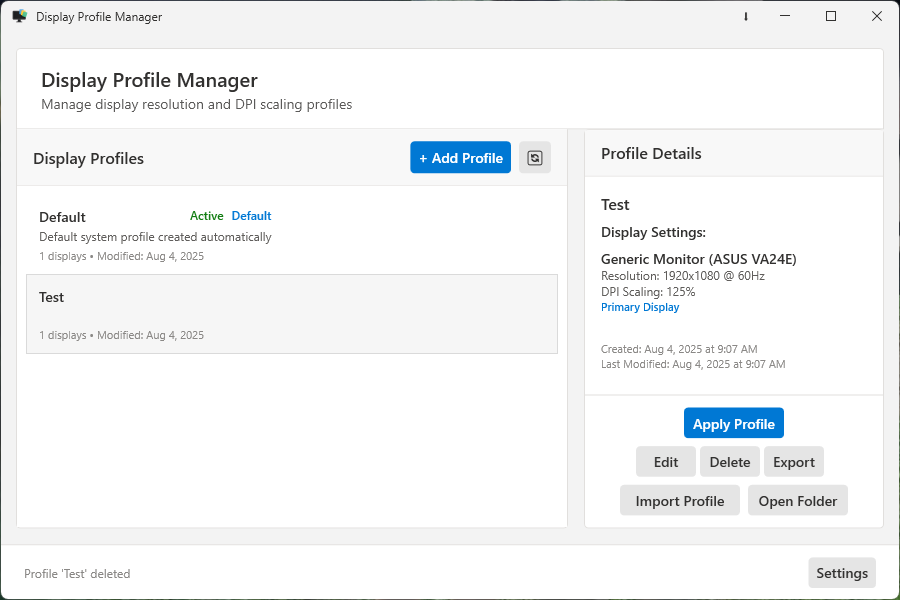
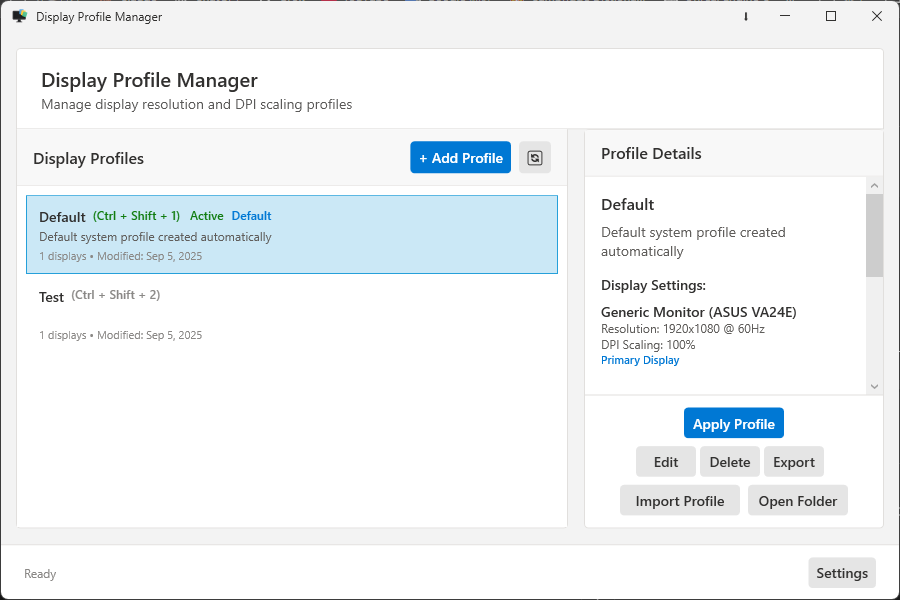
docs: update README screenshots and improve layout
- Replace all screenshots with updated versions showing current UI
- Add second profile editor screenshot to showcase additional features
- Improve README layout with better spacing between sections
- Move screenshot descriptions above images for better readability
- Update profile editor description to include hotkey configuration

diff --git a/README.md b/README.md
@@ -23,20 +23,33 @@ A lightweight Windows desktop application for managing display profiles with qui
 ## 📸 Screenshots
 
 ### Main Window
-![Main Window](docs/screenshots/main-screen.png)
+
 *Manage all your display profiles in one place*
 
+![Main Window](docs/screenshots/main-screen.png)
+
 ### Profile Editor
+
+*Configure resolution, refresh rate, DPI settings for each monitor, hotkey, and audio device preferences*
+
 ![Profile Editor](docs/screenshots/edit-screen.png)
-*Configure resolution, refresh rate, DPI settings for each monitor, and audio device preferences*
+![Profile Editor](docs/screenshots/edit-screen2.png)
+
 
 ### System Tray Menu
-![System Tray](docs/screenshots/tray.png)
+
 *Quick access to switch profiles directly from the system tray*
 
+![System Tray](docs/screenshots/tray.png)
+
+
 ### Dark Theme
-![Dark Theme](docs/screenshots/dark-theme.png)
+
 *Modern dark theme for comfortable viewing*
+
+![Dark Theme](docs/screenshots/dark-theme.png)
+
+
 
 ## 📋 Requirements
 
